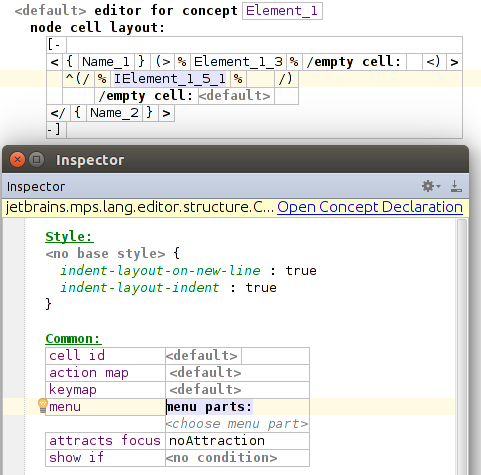
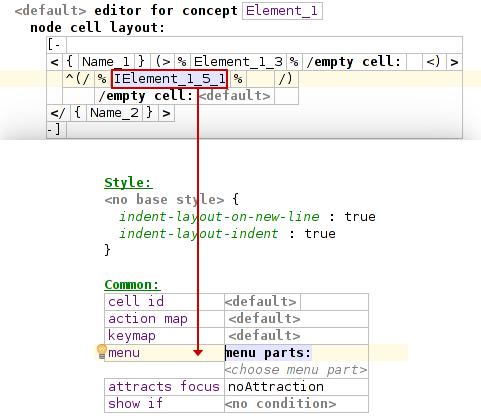
First half of the editor aspect

diff --git a/chapters/importing_the_grammar/the_editor_aspect.tex b/chapters/importing_the_grammar/the_editor_aspect.tex
@@ -4,19 +4,112 @@ After we have imported all concepts, their contents (properties) and linked them
 Without this, we are not able to start using the language inside MPS.
 \\
 
-As stated before, MPS uses a cellular system, that allows placing concept's properties and children into a table-like arrangement.
-MPS has a lot of a different types of cells that we can use.
-Some are used for storing properties, some for storing children and some just dictate the layout.
+As stated before (section~\ref{chap:about_editor_aspect}), MPS uses a cellular system, that allows placing concept's properties and children into a table-like arrangement.
+MPS has a lot of a different types of cells, that we can use:
+
+\begin{itemize}
+	\item Cells for storing values of properties -- user can enter text inside, which is validated using the type of the property (think XML tag name).
+	
+	\item Cells for storing child concepts -- here we can store other parser rule references and build the AST further.
+	
+	\item Cells that have static fixed content, such as constant keyword -- we will use these to display literal elements.
+	
+	\item Cells that alter the layout, such as indenting -- these dictate the layout, which we also care about.
+\end{itemize}
+
 Our import plugin has to create these cells and ideally project all of concept's elements in there.
 \\
 
-A part of this thesis' mission was to explore, whether we can also bring some value into this import step.
-The problem with grammars is, that it serves us no aid in this regard.
+A part of this thesis' mission was to explore, whether we can also bring some more value into this import step.
+The problem with grammars is, that it serves us no aid when it comes to element layout.
 The grammar only defines, what the rule breaks up into and which elements (rule references, literals..) are contained inside of each alternative.
-We will look into creating this missing information, either with users help or using some heuristics.
-It is a very hard problem though since our plugin doesn't really understand the content of grammars.
+We will look into the problem of creating this missing information, either with users help or using some heuristics.
+It is a very hard problem though, since our plugin doesn't really understand the contents of the grammar on some higher level.
 
-\subsection{The interactive approach [TODO]}
-First idea on how to tackle this problem was to interactively prompt user during the import process. We would somehow select rules that we think important and for example give the user three visual options on how we think this rule might look like, they would pick one and we would use this information to create the editor aspect. There are some problems with this that lead the author to rejecting this approach.
+\subsection{The interactive approach}
 
-Firstly, we would have to be able to tell which rules might be worth
+Since the layout information is just missing, we decided to ask the user for it.
+First idea on how to tackle this problem, was to interactively prompt the user during the import process.
+We would somehow select rules, that we consider important, and give the user several visual options on how we think this rule might be laid out.
+The user would pick one and we would use this information to create the editor aspect.
+There are some problems with this though, that led the author to rejecting this approach.
+
+\subsubsection{Detecting interesting rules}
+
+Firstly, we would have to be able to tell, which rules might be worth "discussing" with the user.
+\\
+
+The first idea for a heuristic indicating these "interesting" rules was based on number of elements contained in rule's alternative.
+For simple rules, which there usually is a big number present in the grammar, we would skip them.
+For complex rules (let's say 5 elements and more), we would ask the user for help with the layout.
+The heuristics isn't bad, it would detect complicated rules, such as cycles, branching commands and so on, so it might be a sufficient, yet simple, solution.
+It, however, has some problems --- rules describing a block of statements are usually very simple, example given being the JavaScript one:
+
+\begin{antlr}
+	\parserrule{statementList} : \parserrule{statement}* ;
+\end{antlr}
+
+This rule would be skipped by our heuristics, since the alternative has only one element, but in most general purpose languages, this is exactly the kind of statement, that we would like to alter, since normally we put each statement on a separate line.
+There are dozens of rules, that have this form though (method parameters, operands, ...), and we have no means of recognizing, that this particular one should be a vertical list (meaning its elements should be separated with a new line).
+\\
+
+Another heuristics suggestion was detecting pair symbols among alternative's literal elements.
+Usually, characters such as braces are a good indicator of some indenting.
+We, however, did not implement any of these heuristics, because in the end, we decided to abandon the interactive approach completely, as described below in \ref{chap:interactive_approach_evaluation}.
+That is why, we will not go into more detail here.
+
+\subsubsection{Fixing rule layout}
+
+Once we have detected a rule, that might have some interesting layout, we would ask the user to help us with it.
+Consider, for example, the first alternative of the \parserrule{element} rule from the XML language:
+
+\begin{antlr}
+	\parserrule{element}  :   \literal{<} \lexerrule{Name} \parserrule{attribute}* \literal{>} \parserrule{content}* \literal{</} \lexerrule{Name} \literal{>} ;
+\end{antlr}
+
+Let's say, we would prepare few versions of how we think the layout could look like.
+We could ask the user, whether attributes should be spread out horizontally or each on a new line.
+We could and probably would have to do this for each element, since the plugin has no real understandind of the content.
+We would have to ask for identation, line breaks etc. and we would probably not guess right, since there are just too many options.
+The user would probably end up finalizing the layout himself.
+\\
+
+The other option would be some even more sophisticated interactive approach, where the user would drag the elements around or position them through some text field.
+Again, we are not going into any more detail, as this approach was rejected.
+
+\subsubsection{Approach evaluation}
+\label{chap:interactive_approach_evaluation}
+
+The author of this thesis came to a conclusion, that the results of the interactive approach would be most likely quite suboptimal.
+It would be hard to recognize rules, that are in need of a refactoring.
+Furthermore, when asking for users help, we would just duplicate the functionality of MPS's built in editor of the projectional editor aspect.
+We would hardly mimic all of its functionality and put a lot of effort into something already existent.
+Our end user is expected to have knowledge of the MPS editor, since he is importing language there.
+This means, that he probably knows his way around the projectional editor too.
+It wouldn't make sense to force the user to learn working with our own interactive dialog, while in background, this dialog would be just translating the layout back into the terms of the projectional editor.
+
+\subsection{The learning approach [TODO]}
+
+The second approach is more complex and might yield better results, we have however not implemented it, as we met some obstacles.
+We would like to describe it anyway, so possible follow-up work might take it into consideration.
+
+\subsection{Our solution [TODO]}
+\label{chap:editor_solution}
+
+\textbf{[TODO navazat na predchozi kapitolu, ted jsme to vytrhli]}
+When the author of this thesis worked on the plugin, he noticed, that the most tiresome and probably error prone part of working on the editor aspect is incorporating all concept's properties, children and constant fields into the editor.
+This is the phase, that takes a lot of time when building MPS languages, but does not require any major thought on user's part.
+The author has further noticed, that when the plugin would do this heavy lifting in any simple way, such as plain inlining all of the cells in a single row, further adjustment of the editor is very fast, since MPS offers clever intentions and menus that enable to do this very conveniently.
+In figure \ref{fig:editor_adjustment}, we can see editor adjustment of the \concept{Element{\_}1} concept.
+\\
+
+\begin{figure}[h]
+	\centering
+	\includegraphics[width=\textwidth]{./img/editor_adjustment.png}
+	\caption{Projectional editor adjustment of the Element{\_}1 concept}
+	\label{fig:editor_adjustment}
+\end{figure}
+
+From these reasons, we concluded, that it is sufficient, if the plugin would only prepare contents of all editor aspects and the end user would take it from there.
+We have confirmed this assumption by importing the JavaScript language~\cite{javascript} and manually adjusting all editors, that needed it, in a less than hour time.
+

diff --git a/chapters/importing_the_grammar/the_structure_aspect.tex b/chapters/importing_the_grammar/the_structure_aspect.tex
@@ -94,7 +94,7 @@ Final solution will be described in section \ref{chap:structure_solution}.
 In the end, we have decided to go with the shortcut approach using smart interfaces.
 As we have stated above, it has several advantages, concerning the solution complexity, compared to the smart auto-completion.
 It only has one disadvantage regarding the cardinality restriction, described in \ref{chap:cardinality_restriction}.
-We have analyzed several ANTLR grammars (such as the JavaScript\footnote{https://github.com/antlr/grammars-v4/blob/master/ecmascript/ECMAScript.g4} one) and we haven't found a single intermediate rule, that would be suffering from this restriction.
+We have analyzed several ANTLR grammars (such as the JavaScript~\cite{javascript}) and we haven't found a single intermediate rule, that would be suffering from this restriction.
 It is quite understandable, if you think about how grammars are written.
 Usually, you create the basic structure (i.e. different kinds of statements) in the simplest way possible, and put the quantitative operator rather to an alternative that is referencing the structure.
 \\

diff --git a/chapters/jetbrains_mps.tex b/chapters/jetbrains_mps.tex
@@ -131,6 +131,7 @@ We will describe some of these aspects more closely, as it will give the reader 
 Some are less important for our cause, some are vital.
 
 \subsection{Structure aspect}
+
 The structure aspect is the most important aspect, as all concepts must be first defined here.
 This aspect treats the concept somewhat like a Java class.
 User can define the name, inheritance, interfaces and concept fields:
@@ -154,6 +155,8 @@ In figure \ref{fig:if_statement_structure}, you can see the structure aspect def
 \end{figure}
 
 \subsection{Editor aspect}
+\label{chap:about_editor_aspect}
+
 Editor aspect is where the user defines what the projectional editor representation of a code fragment (an AST node) looks like.
 User usually incorporates all children, references and properties inside the representation so that future user of the language can insert their value into these placeholders.
 Any other static components can be included too.
